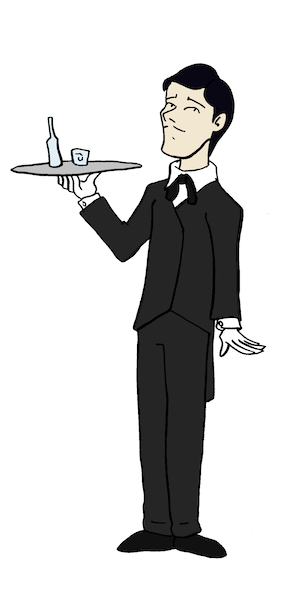
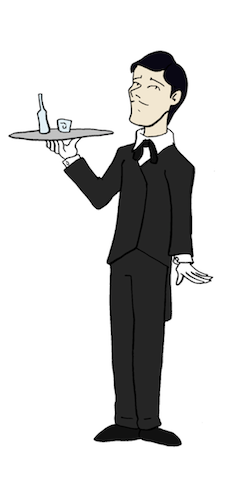
Add Who? image and resize images

diff --git a/css/talk.css b/css/talk.css
@@ -12,7 +12,7 @@ li {
     list-style-position: inside;
 }
 
-li, span, pre {
+li, span, pre, h2, h3, p, ul {
     background-color: #fff;
     opacity: 0.75;
     font-size: 80%;
@@ -24,11 +24,20 @@ ul {
 
 section {
     background-repeat: no-repeat;
-    background-position: left center;
+    background-position: -4em 0;
     margin-top: 10%;
     width: 100%;
 }
 
 .reveal a {
     color: #767676 !important;
+}
+
+.slide-1 {
+    background-image: url('../images/westalkalltheway.png');
+    background-position: left center;
+}
+
+.slide-2 {
+    background-image: url('../images/westalkwho.png');
 }
